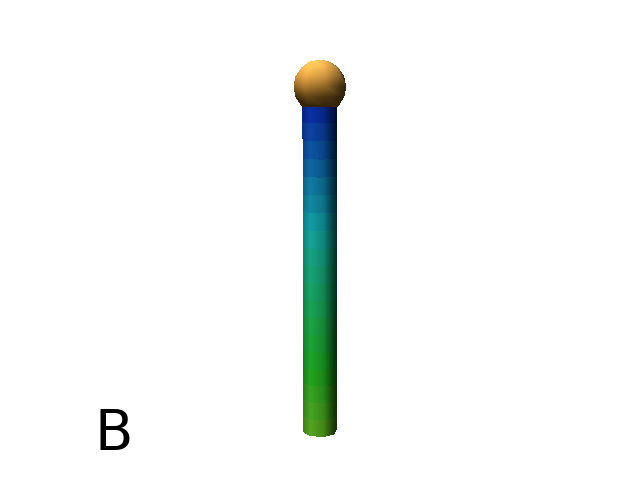
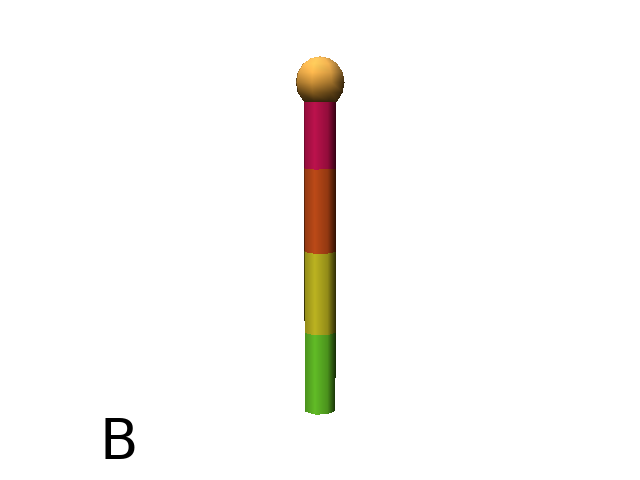
Review of SetHLU part and color part and harder example changed

Changed region(s): [[0.4375, 0.1562, 0.5625, 0.9062], [0.1562, 0.8438, 0.2188, 0.9688], [0.5, 0.125, 0.5312, 0.1562]]

diff --git a/doc/user/turtle.rst b/doc/user/turtle.rst
@@ -165,27 +165,27 @@ There are two examples below.
 
 .. code-block:: python
 
-		Step = 20
-		DIncr = 1.0 / Step
+	Step = 20
+	DIncr = 1.0 / Step
 
-		Axiom:
-		  d = 0.0
-		  for i in range(Step):
-		    nproduce InterpolateColors(3, 5, d) F(0.1) 	#(Fig. A)
-		    d += DIncr
-		  produce ;(2) @O(0.15)
+	Axiom:
+	  d = 0.0
+	  for i in range(Step):
+	    nproduce InterpolateColors(3, 5, d) F(2.0/Step) 	#(Fig. A)
+	    d += DIncr
+	  produce ;(2) @O(0.15)
 
 	#Other example
 
-		Step = 20
-		DIncr = 1.0 / Step
+	Step = 4
+	DIncr = 1.0 / Step
 
-		Axiom:
-  			d = 0.0
-  			for i in range(Step):
-    		nproduce InterpolateColors(2, 5, d) F(0.1) 	#(Fig. B)
-    		d += DIncr
-  			produce ;(1) @O(0.15)
+	Axiom:
+	  d = 0.0
+	  for i in range(Step):
+	    nproduce InterpolateColors(2, 5, d) F(2.0/Step)      #(Fig. B)
+	    d += DIncr
+	  produce ;(1) @O(0.15)
 
 Download the example : :download:`color.lpy <../_downloads/color.lpy>`
 
@@ -527,18 +527,17 @@ The same branching system can be augmented with other modules (@**O** for sphere
 A more complex combined shape
 =============================
 
-Here comes a more complex example using the previous primitives :
+There is below a more complex shape using the previous primitives. In this example, **~l** is used. This primitive draws a leaf.
 
 .. code-block:: python
 
-	Axiom: F [+(45)F;@D(0.8){.F+(90)F+(90)F+(90)F+(90)}] F [-(45)F(1.5);@D(0.8){.F-(90)F-(90)F-(90)F-(90)}] F(2) [+(45)F+(30)F+(15)F+(30)F+(30)F;(3)@O(0.3)]
-	[-(45)F-(30)F-(15)F-(30)F-(30)F;(3)@O(0.3)] [/(90)+(45)F+(30)F+(15)F+(30)F+(30)F;(3)@O(0.3)] [\(90)+(45)F+(30)F+(15)F+(30)F+(30)F;(3)@O(0.3)]
+	Axiom: F[;-(70)f(0.1)\(80)~l]F[;+(70)f(0.1)/(80)~l][-F[;+(70)f(0.1)~l][F(1.2);@O(0.2)]-F(0.6)[-f(0.4);(3)@O(0.3)]F(0.6);@O(0.2)]
+	F(1.5)[;+(70)f(0.1)/(80)~l]F(0.1)[+F;@O(0.2)]F;@O(0.2)
 
 Download the example : :download:`harderExample.lpy <../_downloads/harderExample.lpy>`
 
 +-----------------------------------------+
 | .. image:: ../_images/harderExample.png |
-|    :scale: 100%                         |
 +-----------------------------------------+
 
 Advanced primitives
